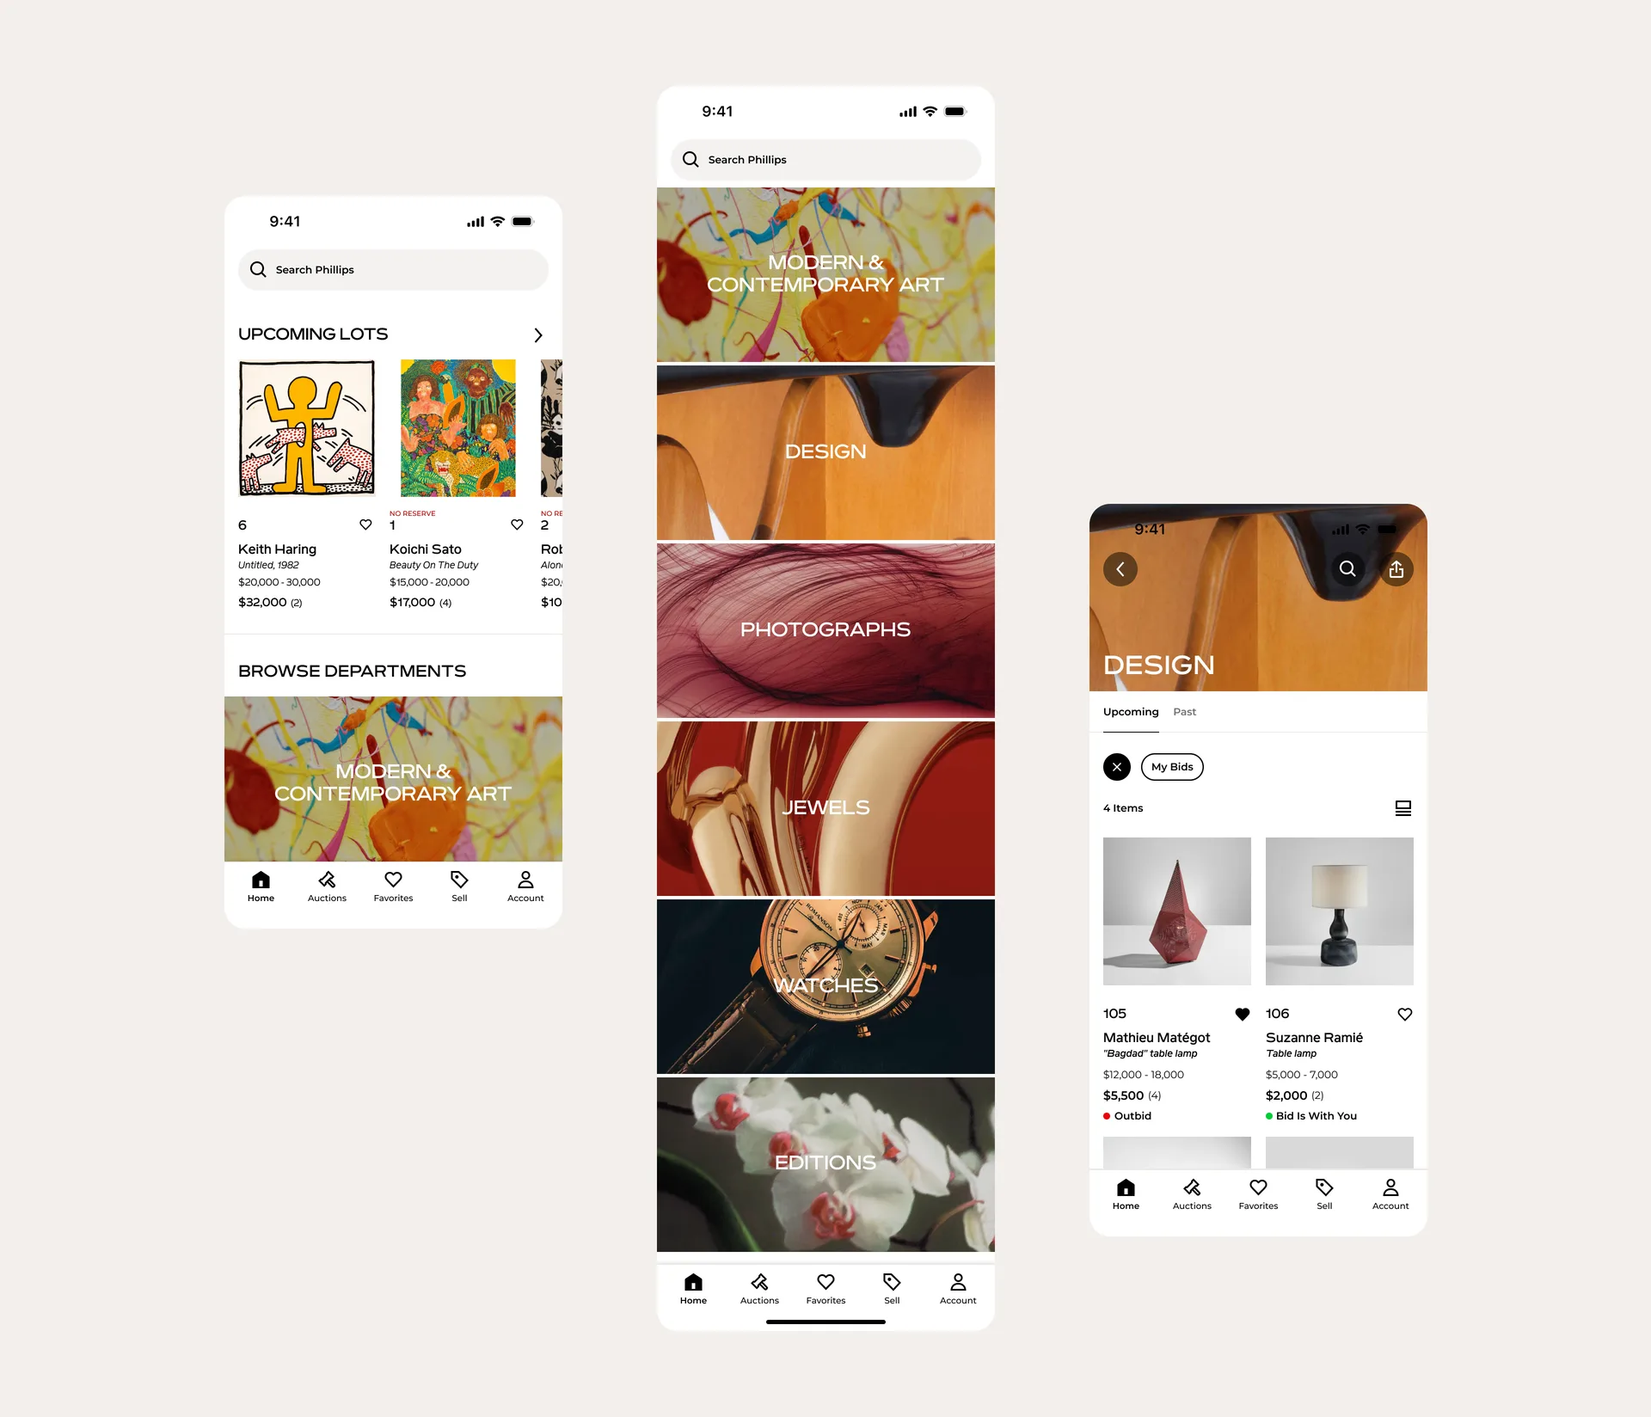
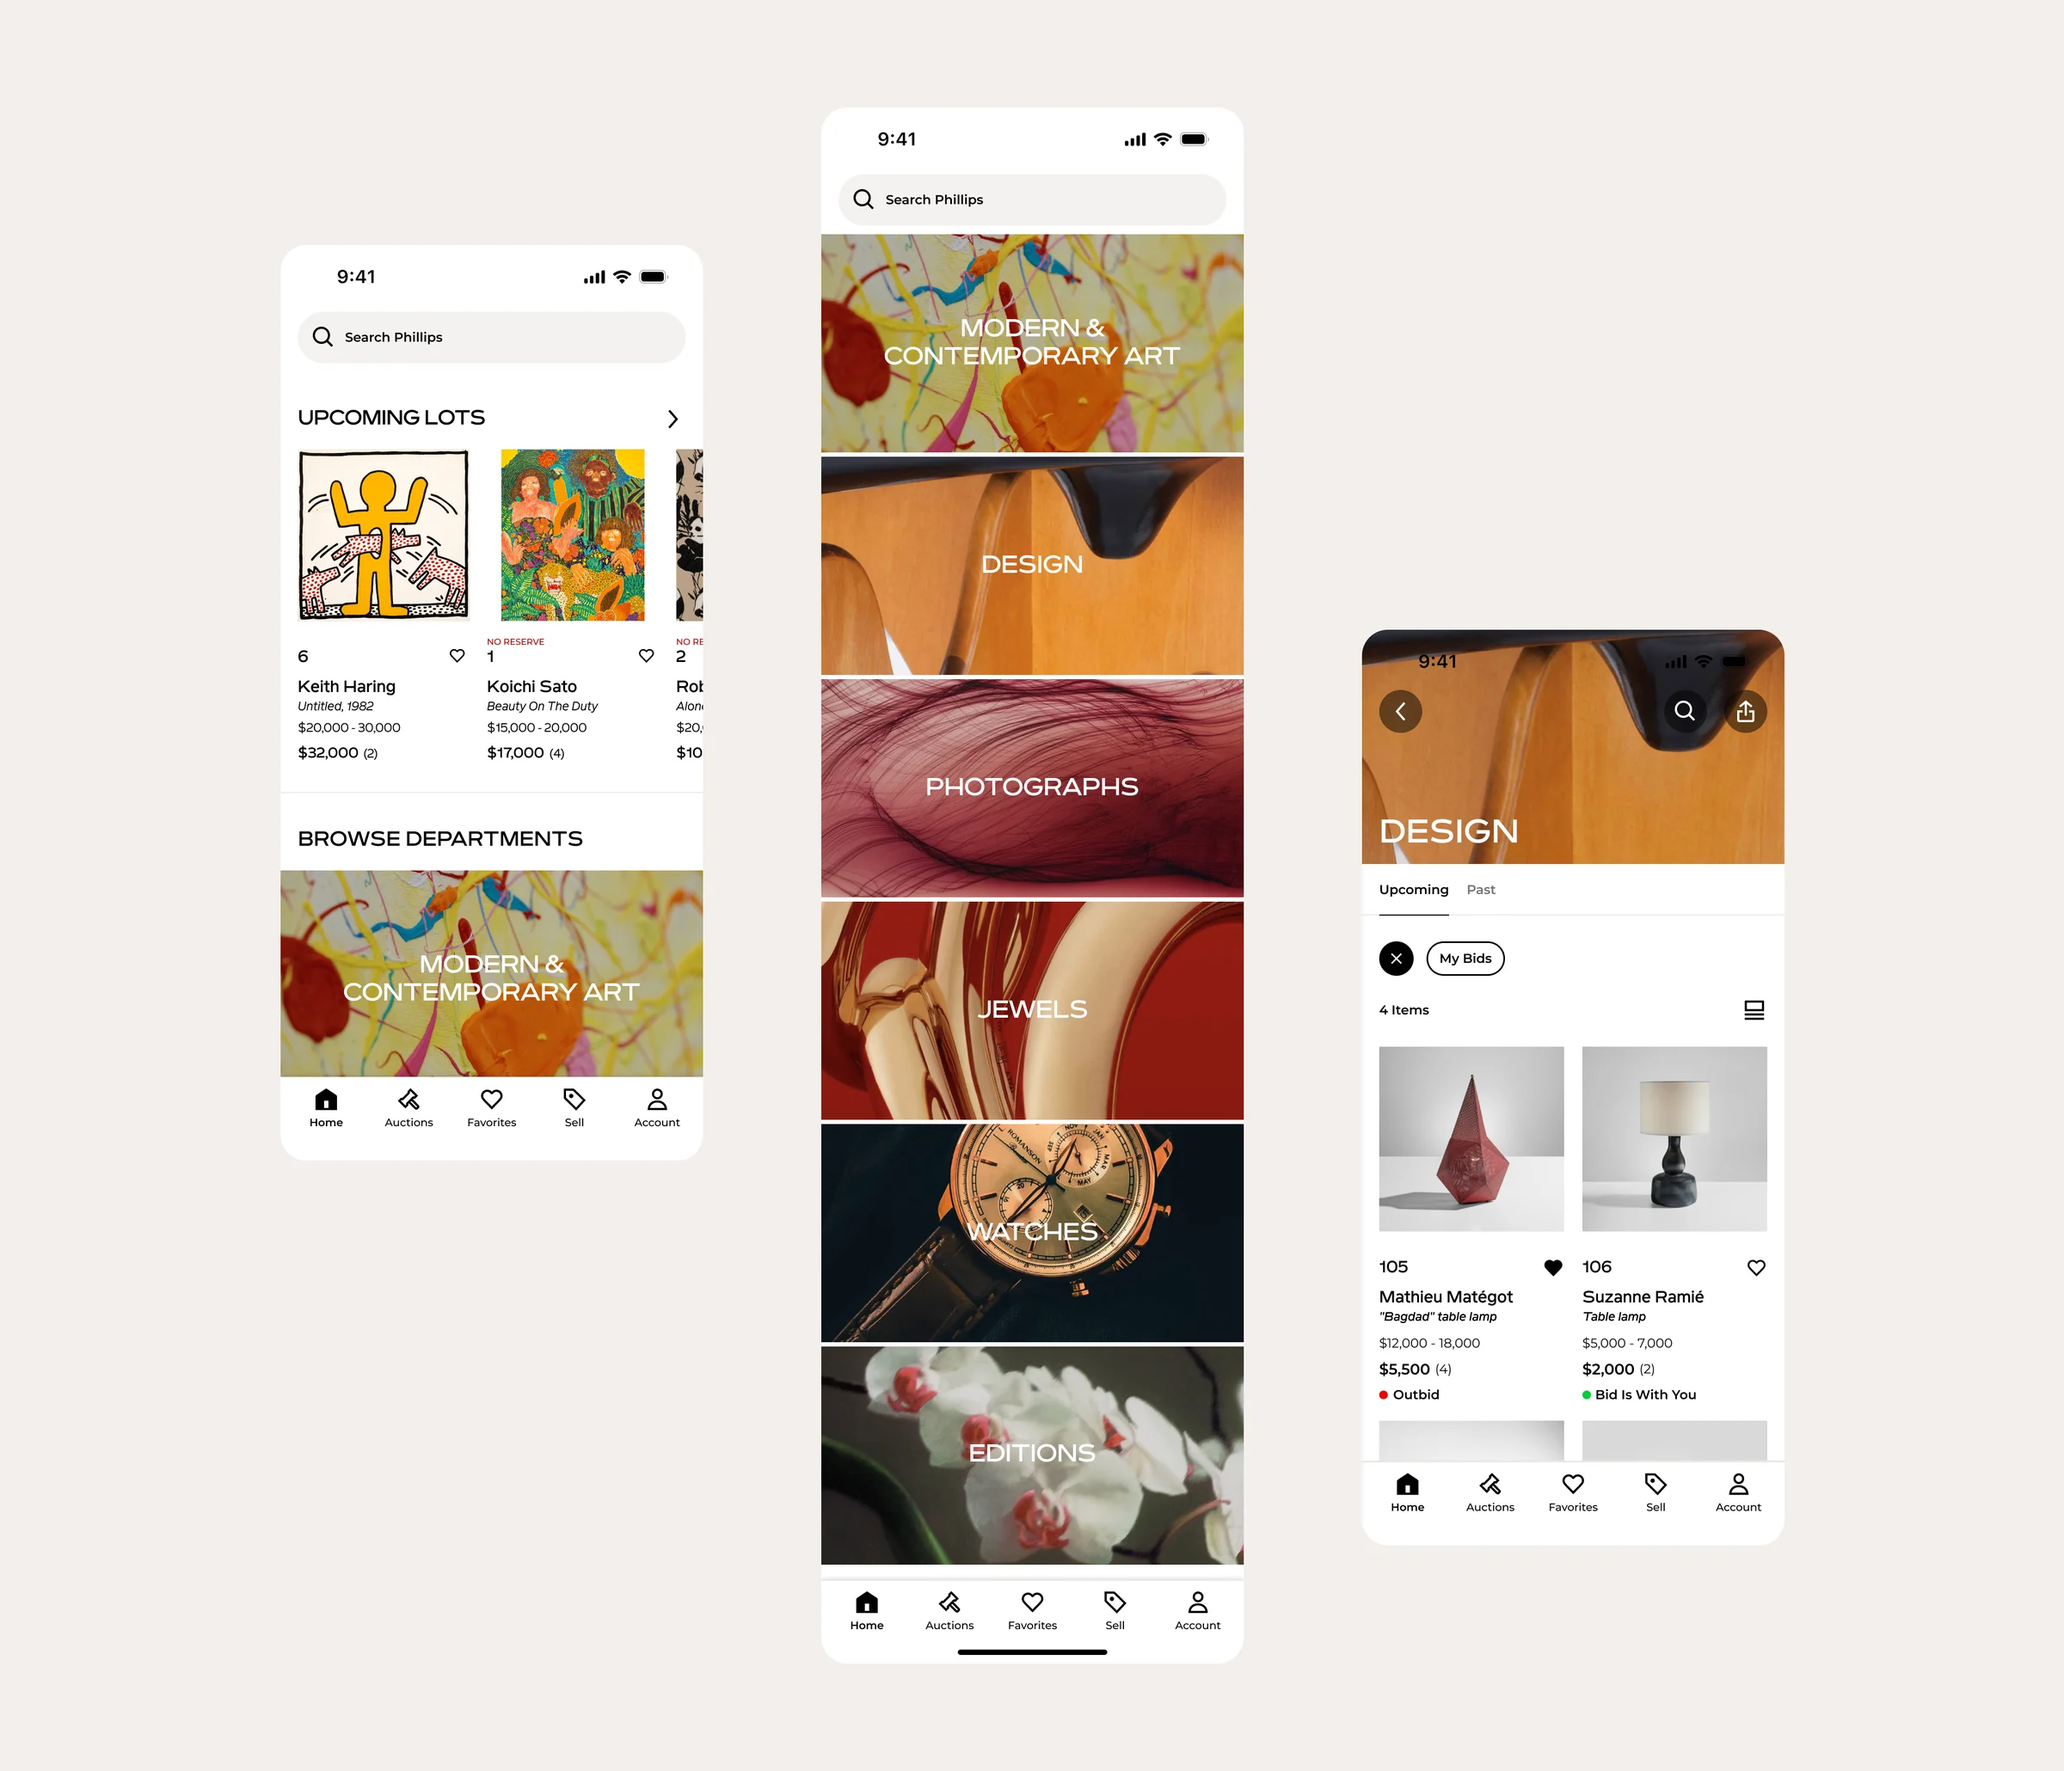
Phillips: correct hero (Jewels Hong Kong + laptop) and fresh exports from Final Assets; every visual full width at its own ratio, stacked tight; duplicate notifications image removed
Claude-Session: https://claude.ai/code/session_01R3sLzbDDmWZBddZT1vuHjx

Changed region(s): [[0.1562, 0.2785, 0.2188, 0.3404], [0.1562, 0.4023, 0.1875, 0.4333]]

diff --git a/content/projects/phillips.js b/content/projects/phillips.js
@@ -1,4 +1,3 @@
-import { full, img } from "./_kit";
 
 const P = "/media/phillips/";
 const pic = (span, ratio, file, alt) => ({ span: "col-" + span, kind: "media", ratio, media: { img: P + file, alt } });
@@ -59,26 +58,33 @@ const phillips = {
       ],
     },
   },
+  // every visual full width at its own ratio (nothing cropped), stacked 8px apart
   modules: [
-    full(img(P + "hero.webp", "Phillips redesigned homepage hero")),
+    lockup(pic(12, "free", "hero.webp", "Phillips Jewels Hong Kong poster beside the redesigned homepage on a laptop")),
     say("Phillips is a leading auction house for contemporary art, design, watches and jewellery. We rebuilt its whole client-facing experience: a native iOS app, a responsive web platform, an auction calendar and a live Saleroom, on a new design system and brand.", "The challenge", "challenge"),
     lockup(
-      pic(8, "16:9", "sale-home.webp", "Phillips sale and home pages"),
-      panel(4, "A full redesign of the auction calendar across native and responsive web. Cards and a clearer hierarchy match how clients look for sales, and click-to-register nearly doubled, from *618 to 1,100+* in 90 days.", "Auction calendar")
+      pic(12, "free", "browse.webp", "Phillips browse departments"),
+      pic(12, "free", "sale-home.webp", "Phillips sale and home pages"),
+      pic(12, "free", "sale.webp", "Phillips sale page"),
+      panel(6, "A full redesign of the auction calendar across native and responsive web. Cards and a clearer hierarchy match how clients look for sales, and click-to-register nearly doubled, from *618 to 1,100+* in 90 days.", "Auction calendar")
     ),
-    lockup(pic(6, "16:9", "browse.webp", "Phillips browse departments"), pic(6, "16:9", "sale.webp", "Phillips sale page")),
     say("I led design from 2024 to 2026 across process, product polish and brand, from journey-mapping workshops to the bidding abandonment study.", "My role", "role"),
-    lockup(pic(6, "16:9", "registering.webp", "Phillips registration flow"), pic(6, "16:9", "bidding-favourites.webp", "Phillips bidding and favourites")),
+    lockup(
+      pic(12, "free", "registering.webp", "Phillips registration flow"),
+      pic(12, "free", "bidding-favourites.webp", "Phillips bidding and favourites")
+    ),
     say("Alongside the product, I led a new digital brand with a custom typeface, and built a design system with shared tokens and a component library in the codebase.", "Brand and system", "brand"),
-    full(img(P + "onboarding.webp", "Phillips onboarding, registration and verification flows")),
-    full(img(P + "lot-details.webp", "Phillips lot details")),
+    lockup(
+      pic(12, "free", "onboarding.webp", "Phillips onboarding, registration and verification flows"),
+      pic(12, "free", "lot-details.webp", "Phillips lot details")
+    ),
     say("The first iOS phase launched within six months. The new design tackled what drove bidding abandonment: clearer advance bidding, better notifications and a rebuilt live Saleroom.", "Outcomes", "outcomes"),
     lockup(
-      pic(6, "16:9", "saleroom-desktop.webp", "Phillips live Saleroom on desktop"),
-      pic(6, "16:9", "saleroom-mobile.webp", "Phillips live Saleroom on mobile"),
+      pic(12, "free", "saleroom-desktop.webp", "Phillips live Saleroom on desktop"),
+      pic(12, "free", "saleroom-mobile.webp", "Phillips live Saleroom on mobile"),
+      pic(12, "free", "notifications-live.webp", "Phillips live sale notifications and live activity"),
       panel(6, "The highest-priority workstream after repeated failures during live sales. A rebuilt Saleroom on desktop and mobile, with online live bids up after the redesign.", "Live Saleroom")
     ),
-    lockup(pic(6, "16:9", "notifications-live.webp", "Phillips live sale notifications"), pic(6, "16:9", "notifications-social.webp", "Phillips notifications")),
     {
       type: "row",
       tight: true,
@@ -106,7 +112,7 @@ const phillips = {
         panel(6, "The INTERSECT watch sale ran as native Instagram story takeovers. The story chrome is built live over the footage, so the same clip works at any size.", "INTERSECT campaign"),
       ],
     },
-    full(img(P + "brand-assets.webp", "Phillips brand assets")),
+    lockup(pic(12, "free", "brand-assets.webp", "Phillips brand assets")),
   ],
   overview: {
     heading: "Overview",
